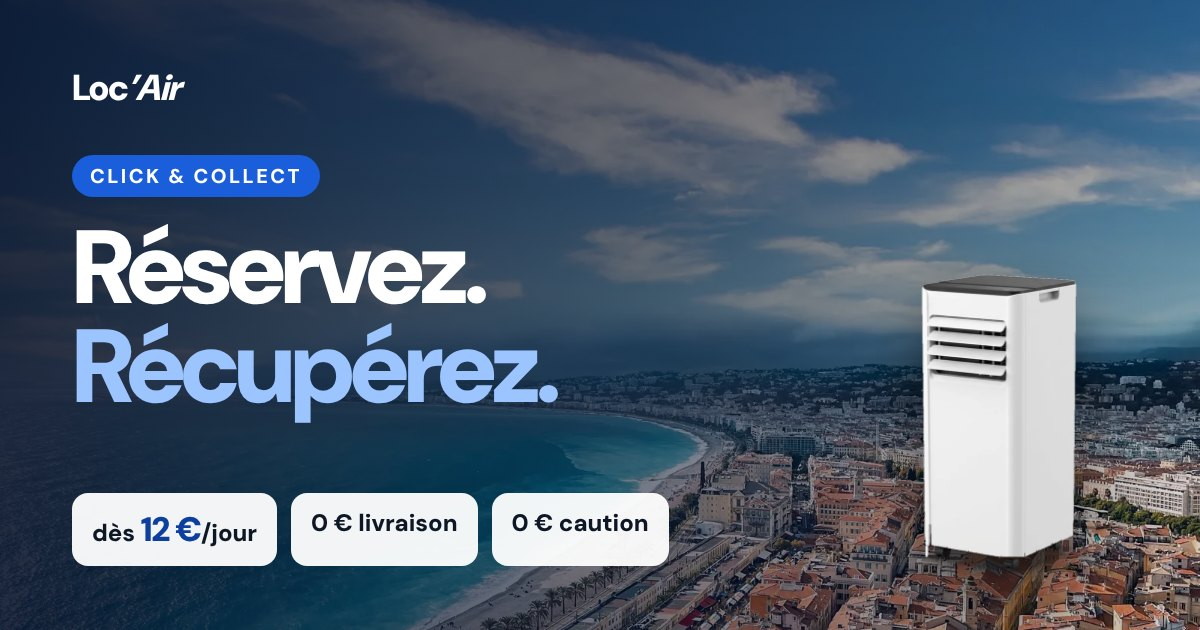
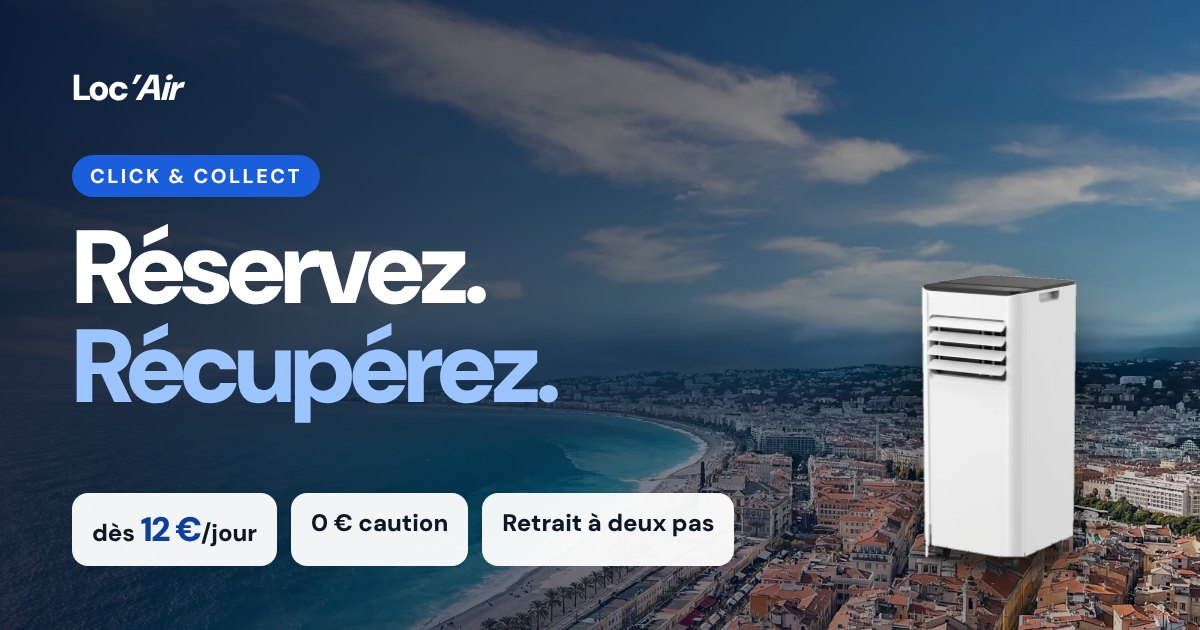
Click & Collect : plus aucune mention de livraison + ticket du haut amélioré
Le Click & Collect ne livre pas : « 0 € de livraison » laissait croire à
une livraison offerte. Retiré du ticket, des tarifs, du simulateur, des
avantages (carte « À deux pas de chez vous »), de la FAQ, du bandeau
manifeste, du récapitulatif, de la barre des dates, des balises de
partage, de l'image de partage et de l'email de confirmation. Julie est
prévenue (ne pas dire « livraison gratuite »).

Ticket : « Prêt à brancher · pièce jusqu'à 15 m² », « Chez un commerçant
près de chez vous », garanties 0 € caution · kit sans perçage ·
réservation 24h/24 · 4,9★.

Claude-Session: https://claude.ai/code/session_01GEnKbPYfUY1zWoPXS2iGVo

Changed region(s): [[0.2775, 0.7841, 0.6167, 0.9048]]

diff --git a/click-and-collect.html b/click-and-collect.html
@@ -39,13 +39,13 @@
 <meta name="viewport" content="width=device-width,initial-scale=1,viewport-fit=cover">
 <title>Click &amp; Collect climatiseur — réservez, récupérez près de chez vous · Loc’Air</title>
 <link rel="canonical" href="https://www.locair.fr/click-and-collect">
-<meta name="description" content="Un climatiseur près de chez vous, réservable à toute heure. Location dès 12 € par jour, retrait dans un point Loc’Air de la Côte d’Azur, sans frais de livraison ni caution.">
+<meta name="description" content="Un climatiseur près de chez vous, réservable à toute heure. Location dès 12 € par jour, retrait dans un point Loc’Air de la Côte d’Azur, sans caution.">
 <meta name="robots" content="noindex,nofollow">
 <meta property="og:type" content="website">
 <meta property="og:site_name" content="Loc’Air">
 <meta property="og:url" content="https://www.locair.fr/click-and-collect">
 <meta property="og:title" content="Réservez. Récupérez. Votre climatiseur près de chez vous · Loc’Air">
-<meta property="og:description" content="Click &amp; Collect sur la Côte d’Azur : réservez en ligne à toute heure, récupérez votre climatiseur chez un commerçant près de chez vous. Dès 12 € par jour, 0 € de livraison, 0 € de caution.">
+<meta property="og:description" content="Click &amp; Collect sur la Côte d’Azur : réservez en ligne à toute heure, récupérez votre climatiseur chez un commerçant près de chez vous. Dès 12 € par jour, sans caution.">
 <meta property="og:image" content="https://www.locair.fr/og-click-collect.jpg">
 <meta property="og:image:width" content="1200">
 <meta property="og:image:height" content="630">
@@ -1010,6 +1010,10 @@ html[data-style="brut"] .tf-barre i{font-family:var(--mono)}
 .av-sous{margin:-12px 0 18px;color:var(--ink-2);font-size:15.5px}
 html[data-style="brut"] .av-sous{font-family:var(--mono);text-transform:uppercase;font-size:12.5px}
 .avis-vo{font-size:12.5px;color:var(--ink-3);margin:2px 0 4px}
+.t-lieu{display:flex;align-items:center;gap:5px;font-size:12.5px;font-weight:700;color:var(--vif-d);margin-top:2px}
+.t-lieu svg{width:14px;height:14px;flex:none;stroke:var(--vif);fill:none;stroke-width:2.2}
+html[data-style="brut"] .t-lieu{font-family:var(--mono);text-transform:uppercase;font-size:11px;color:var(--noir)}
+html[data-style="brut"] .t-lieu svg{stroke:var(--noir)}
 </style>
 <script>
 /* STYLE BRUT (essai) : ?style=brut l'active, ?style=normal le retire. */
@@ -1100,15 +1104,16 @@ html[data-style="brut"] .av-sous{font-family:var(--mono);text-transform:uppercas
             <span class="t-info">
               <span class="t-badge"><svg viewBox="0 0 24 24" aria-hidden="true"><path d="M6 7h12l-1 13H7z"/><path d="M9 7a3 3 0 016 0"/></svg>Click &amp; Collect</span>
               <b class="t-nom"><span lang="fr">Climatiseur mobile</span><span lang="en">Portable air conditioner</span></b>
-              <span class="t-sous"><span lang="fr">Prêt à brancher · sans travaux</span><span lang="en">Plug and play · no works</span></span>
+              <span class="t-sous"><span lang="fr">Prêt à brancher · pièce jusqu’à 15 m²</span><span lang="en">Plug and play · rooms up to 15 m²</span></span>
+              <span class="t-lieu"><svg viewBox="0 0 24 24" aria-hidden="true"><path d="M12 22s7-6.2 7-12a7 7 0 10-14 0c0 5.8 7 12 7 12z"/><circle cx="12" cy="10" r="2.5"/></svg><span lang="fr">Chez un commerçant près de chez vous</span><span lang="en">At a shop near you</span></span>
               <span class="t-prix"><small><span lang="fr">dès</span><span lang="en">from</span></small><b id="prix-mini">12</b><em>€/<span lang="fr">jour</span><span lang="en">day</span></em></span>
             </span>
           </span>
           <span class="t-coupe" aria-hidden="true"></span>
           <span class="t-atouts">
-            <span><b>0&nbsp;€</b><small><span lang="fr">livraison</span><span lang="en">delivery</span></small></span>
-            <span><b>0&nbsp;€</b><small><span lang="fr">caution</span><span lang="en">deposit</span></small></span>
+                        <span><b>0&nbsp;€</b><small><span lang="fr">caution</span><span lang="en">deposit</span></small></span>
             <span><b><span lang="fr">Kit</span><span lang="en">No-drill</span></b><small><span lang="fr">sans perçage</span><span lang="en">kit</span></small></span>
+            <span><b>24h/24</b><small><span lang="fr">réservation</span><span lang="en">booking</span></small></span>
             <span><b>4,9★</b><small><span lang="fr">38 avis</span><span lang="en">38 reviews</span></small></span>
           </span>
           <span class="t-cta"><span lang="fr">Je réserve mon point de retrait</span><span lang="en">Choose my pick-up point</span><svg viewBox="0 0 24 24" aria-hidden="true"><path d="M12 5v14M6 13l6 6 6-6"/></svg></span>
@@ -1118,8 +1123,8 @@ html[data-style="brut"] .av-sous{font-family:var(--mono);text-transform:uppercas
 
     <!-- Bandeau manifeste (version « brut ») : seulement des faits vrais -->
     <div class="manifeste" aria-hidden="true"><div class="m-defile">
-      <span lang="fr">Pas de camion ✕ Pas de caution ✕ Pas de standard ✕ 0 € de livraison ✕ Réservable à toute heure ✕ </span><span lang="en">No van ✕ No deposit ✕ No call centre ✕ €0 delivery ✕ Bookable at any hour ✕ </span>
-      <span lang="fr">Pas de camion ✕ Pas de caution ✕ Pas de standard ✕ 0 € de livraison ✕ Réservable à toute heure ✕ </span><span lang="en">No van ✕ No deposit ✕ No call centre ✕ €0 delivery ✕ Bookable at any hour ✕ </span>
+      <span lang="fr">Pas de caution ✕ Pas de perçage ✕ Pas de standard ✕ Retrait à deux pas ✕ Réservable à toute heure ✕ </span><span lang="en">No deposit ✕ No drilling ✕ No call centre ✕ Pick-up next door ✕ Bookable at any hour ✕ </span>
+      <span lang="fr">Pas de caution ✕ Pas de perçage ✕ Pas de standard ✕ Retrait à deux pas ✕ Réservable à toute heure ✕ </span><span lang="en">No deposit ✕ No drilling ✕ No call centre ✕ Pick-up next door ✕ Bookable at any hour ✕ </span>
     </div></div>
 
     <div class="col">
@@ -1207,7 +1212,6 @@ html[data-style="brut"] .av-sous{font-family:var(--mono);text-transform:uppercas
         </div>
       </div>
       <ul class="tf-inclus">
-        <li><span lang="fr">0 € de livraison</span><span lang="en">€0 delivery</span></li>
         <li><span lang="fr">0 € de caution</span><span lang="en">€0 deposit</span></li>
         <li><span lang="fr">Kit de fenêtre inclus</span><span lang="en">Window kit included</span></li>
         <li><span lang="fr">Prolongation en ligne</span><span lang="en">Extend online</span></li>
@@ -1220,8 +1224,8 @@ html[data-style="brut"] .av-sous{font-family:var(--mono);text-transform:uppercas
     <!-- ══ AVANTAGES (uniquement des faits vrais) ══ -->
     <section class="avantages" aria-labelledby="t-av"><div class="col">
       <h2 id="t-av"><span lang="fr">Tout ce que vous n’aurez pas à faire</span><span lang="en">Everything you won’t have to do</span></h2>
-      <p class="av-sous"><span lang="fr">Pas de caution, pas de livraison à attendre, pas de travaux. Juste du frais.</span><span lang="en">No deposit, no delivery to wait for, no works. Just cool air.</span></p>
-      <ul class="av-grille"><li><span class="av-ico"><svg viewBox="0 0 24 24" aria-hidden="true"><path d="M12 2l8 3v6c0 5-3.5 9-8 11-4.5-2-8-6-8-11V5z"/><path d="M9 12l2 2 4-4"/></svg></span><b><span lang="fr">0 € de caution</span><span lang="en">€0 deposit</span></b><p><span lang="fr">Aucune somme bloquée sur votre carte.</span><span lang="en">Nothing held on your card.</span></p><span class="av-plus"><span lang="fr">Vous payez la location. Point.</span><span lang="en">You pay for the rental. That’s it.</span></span></li><li><span class="av-ico"><svg viewBox="0 0 24 24" aria-hidden="true"><circle cx="12" cy="12" r="9"/><path d="M12 7v5l3 2"/><path d="M19 3v4h-4"/></svg></span><b><span lang="fr">Prolongez en ligne</span><span lang="en">Extend online</span></b><p><span lang="fr">Depuis votre espace client, sans repasser au point.</span><span lang="en">From your customer area, no need to go back to the shop.</span></p><span class="av-plus"><span lang="fr">Selon disponibilité, l’appareil reste chez vous.</span><span lang="en">Subject to availability, the unit stays with you.</span></span></li><li><span class="av-ico"><svg viewBox="0 0 24 24" aria-hidden="true"><path d="M3 7h11v10H3zM14 10h4l3 3v4h-7"/><circle cx="7" cy="18" r="2"/><circle cx="17" cy="18" r="2"/><path d="M2 3l20 18"/></svg></span><b><span lang="fr">0 € de livraison</span><span lang="en">€0 delivery</span></b><p><span lang="fr">Votre climatiseur vous attend déjà près de chez vous.</span><span lang="en">Your air conditioner is already waiting near you.</span></p><span class="av-plus"><span lang="fr">Aucun créneau de livraison à guetter.</span><span lang="en">No delivery slot to wait for.</span></span></li><li><span class="av-ico"><svg viewBox="0 0 24 24" aria-hidden="true"><rect x="4" y="3" width="16" height="18" rx="2"/><path d="M12 3v18M4 12h16"/></svg></span><b><span lang="fr">Zéro perçage</span><span lang="en">Zero drilling</span></b><p><span lang="fr">Le kit de fenêtre est fourni.</span><span lang="en">The window kit is included.</span></p><span class="av-plus"><span lang="fr">Rien à visser. Rien à abîmer.</span><span lang="en">Nothing to screw. Nothing to damage.</span></span></li><li><span class="av-ico"><svg viewBox="0 0 24 24" aria-hidden="true"><rect x="6" y="2" width="12" height="20" rx="3"/><path d="M10 18h4"/></svg></span><b><span lang="fr">Réservez à toute heure</span><span lang="en">Book any time</span></b><p><span lang="fr">Paiement sécurisé en ligne, même à minuit.</span><span lang="en">Secure online payment, even at midnight.</span></p><span class="av-plus"><span lang="fr">Le soir, le week-end, quand vous voulez.</span><span lang="en">Evenings, weekends, whenever you like.</span></span></li><li><span class="av-ico"><svg viewBox="0 0 24 24" aria-hidden="true"><path d="M3 7l6 6 4-4 8 8"/><path d="M14 17h7v-7"/></svg></span><b><span lang="fr">Plus c’est long, moins c’est cher</span><span lang="en">The longer, the cheaper</span></b><p><span lang="fr">Le prix par jour baisse dès le 8e jour.</span><span lang="en">The daily price drops from day 8.</span></p><span class="av-plus" id="av-plus-prix"></span></li></ul>
+      <p class="av-sous"><span lang="fr">Pas de caution, pas de travaux, pas d’attente. Juste du frais.</span><span lang="en">No deposit, no works, no waiting. Just cool air.</span></p>
+      <ul class="av-grille"><li><span class="av-ico"><svg viewBox="0 0 24 24" aria-hidden="true"><path d="M12 2l8 3v6c0 5-3.5 9-8 11-4.5-2-8-6-8-11V5z"/><path d="M9 12l2 2 4-4"/></svg></span><b><span lang="fr">0 € de caution</span><span lang="en">€0 deposit</span></b><p><span lang="fr">Aucune somme bloquée sur votre carte.</span><span lang="en">Nothing held on your card.</span></p><span class="av-plus"><span lang="fr">Vous payez la location. Point.</span><span lang="en">You pay for the rental. That’s it.</span></span></li><li><span class="av-ico"><svg viewBox="0 0 24 24" aria-hidden="true"><circle cx="12" cy="12" r="9"/><path d="M12 7v5l3 2"/><path d="M19 3v4h-4"/></svg></span><b><span lang="fr">Prolongez en ligne</span><span lang="en">Extend online</span></b><p><span lang="fr">Depuis votre espace client, sans repasser au point.</span><span lang="en">From your customer area, no need to go back to the shop.</span></p><span class="av-plus"><span lang="fr">Selon disponibilité, l’appareil reste chez vous.</span><span lang="en">Subject to availability, the unit stays with you.</span></span></li><li><span class="av-ico"><svg viewBox="0 0 24 24" aria-hidden="true"><path d="M12 22s7-6.2 7-12a7 7 0 10-14 0c0 5.8 7 12 7 12z"/><circle cx="12" cy="10" r="2.5"/></svg></span><b><span lang="fr">À deux pas de chez vous</span><span lang="en">Right around the corner</span></b><p><span lang="fr">Votre climatiseur vous attend chez un commerçant du quartier.</span><span lang="en">Your air conditioner is waiting at a local shop.</span></p><span class="av-plus"><span lang="fr">Vous passez quand ça vous arrange, aux horaires du point.</span><span lang="en">Drop by when it suits you, during the shop’s opening hours.</span></span></li><li><span class="av-ico"><svg viewBox="0 0 24 24" aria-hidden="true"><rect x="4" y="3" width="16" height="18" rx="2"/><path d="M12 3v18M4 12h16"/></svg></span><b><span lang="fr">Zéro perçage</span><span lang="en">Zero drilling</span></b><p><span lang="fr">Le kit de fenêtre est fourni.</span><span lang="en">The window kit is included.</span></p><span class="av-plus"><span lang="fr">Rien à visser. Rien à abîmer.</span><span lang="en">Nothing to screw. Nothing to damage.</span></span></li><li><span class="av-ico"><svg viewBox="0 0 24 24" aria-hidden="true"><rect x="6" y="2" width="12" height="20" rx="3"/><path d="M10 18h4"/></svg></span><b><span lang="fr">Réservez à toute heure</span><span lang="en">Book any time</span></b><p><span lang="fr">Paiement sécurisé en ligne, même à minuit.</span><span lang="en">Secure online payment, even at midnight.</span></p><span class="av-plus"><span lang="fr">Le soir, le week-end, quand vous voulez.</span><span lang="en">Evenings, weekends, whenever you like.</span></span></li><li><span class="av-ico"><svg viewBox="0 0 24 24" aria-hidden="true"><path d="M3 7l6 6 4-4 8 8"/><path d="M14 17h7v-7"/></svg></span><b><span lang="fr">Plus c’est long, moins c’est cher</span><span lang="en">The longer, the cheaper</span></b><p><span lang="fr">Le prix par jour baisse dès le 8e jour.</span><span lang="en">The daily price drops from day 8.</span></p><span class="av-plus" id="av-plus-prix"></span></li></ul>
       <div class="av-points" id="av-points" aria-hidden="true"></div>
     </div></section>
 
@@ -1254,10 +1258,10 @@ html[data-style="brut"] .av-sous{font-family:var(--mono);text-transform:uppercas
          ne couvrent pas encore le retrait au point) ══ -->
     <section class="faq" aria-labelledby="t-faq"><div class="col">
       <h2 id="t-faq"><span lang="fr">Questions fréquentes</span><span lang="en">FAQ</span></h2>
-      <div class="faq-liste"><details class="faq-q"><summary><span lang="fr">Comment se passe le retrait ?</span><span lang="en">How does pick-up work?</span><svg viewBox="0 0 24 24" aria-hidden="true"><path d="M6 9l6 6 6-6"/></svg></summary><p><span lang="fr">Le jour choisi, allez directement au point de retrait, aux horaires d’ouverture. Montrez votre QR code (reçu par email) et votre pièce d’identité : on vous remet le climatiseur et son kit de fenêtre.</span><span lang="en">On your chosen day, go straight to the pick-up point during opening hours. Show your QR code (sent by email) and your ID: you get the air conditioner and its window kit.</span></p></details><details class="faq-q"><summary><span lang="fr">Faut-il une caution ?</span><span lang="en">Is there a deposit?</span><svg viewBox="0 0 24 24" aria-hidden="true"><path d="M6 9l6 6 6-6"/></svg></summary><p><span lang="fr">Non. Aucune somme n’est bloquée sur votre carte : vous payez la location, c’est tout.</span><span lang="en">No. Nothing is held on your card: you pay for the rental, that’s all.</span></p></details><details class="faq-q"><summary><span lang="fr">Combien ça coûte ?</span><span lang="en">How much does it cost?</span><svg viewBox="0 0 24 24" aria-hidden="true"><path d="M6 9l6 6 6-6"/></svg></summary><p><span lang="fr">Un prix par jour qui baisse avec la durée (voir les tarifs plus haut), 7 jours minimum, 0 € de livraison. Le prix exact de vos dates s’affiche toujours avant de payer.</span><span lang="en">A daily price that drops the longer you keep it (see pricing above), 7 days minimum, €0 delivery. The exact price for your dates is always shown before you pay.</span></p></details><details class="faq-q"><summary><span lang="fr">Quelle pièce d’identité faut-il ?</span><span lang="en">What ID do I need?</span><svg viewBox="0 0 24 24" aria-hidden="true"><path d="M6 9l6 6 6-6"/></svg></summary><p><span lang="fr">Une carte d’identité (recto et verso) ou un passeport. Vous l’ajoutez juste après le paiement, elle est vérifiée au comptoir, gardée de façon privée et supprimée 30 jours après la location.</span><span lang="en">An ID card (front and back) or a passport. You add it right after paying; it’s checked at the counter, kept private and deleted 30 days after the rental.</span></p></details><details class="faq-q"><summary><span lang="fr">Est-ce adapté à ma pièce ?</span><span lang="en">Will it suit my room?</span><svg viewBox="0 0 24 24" aria-hidden="true"><path d="M6 9l6 6 6-6"/></svg></summary><p><span lang="fr">Le climatiseur mobile rafraîchit une pièce fermée, jusqu’à environ 15 m². La gaine sort par la fenêtre grâce au kit fourni, sans perçage.</span><span lang="en">The portable air conditioner cools a closed room of up to about 15 m². The hose goes out through the window with the kit provided, no drilling.</span></p></details><details class="faq-q"><summary><span lang="fr">Puis-je prolonger ma location ?</span><span lang="en">Can I extend my rental?</span><svg viewBox="0 0 24 24" aria-hidden="true"><path d="M6 9l6 6 6-6"/></svg></summary><p><span lang="fr">Oui, en ligne depuis votre espace client (« Ma réservation »), selon disponibilité. Pas besoin de repasser au point.</span><span lang="en">Yes, online from your customer area (“My booking”), subject to availability. No need to go back to the shop.</span></p></details><details class="faq-q"><summary><span lang="fr">Comment je le rapporte ?</span><span lang="en">How do I return it?</span><svg viewBox="0 0 24 24" aria-hidden="true"><path d="M6 9l6 6 6-6"/></svg></summary><p><span lang="fr">Au même point de retrait, le jour du retour, aux horaires d’ouverture. Rien d’autre à faire.</span><span lang="en">To the same pick-up point, on your return day, during opening hours. Nothing else to do.</span></p></details><details class="faq-q"><summary><span lang="fr">Vais-je recevoir une facture ?</span><span lang="en">Will I get an invoice?</span><svg viewBox="0 0 24 24" aria-hidden="true"><path d="M6 9l6 6 6-6"/></svg></summary><p><span lang="fr">Oui. Elle vous est envoyée par email après le paiement et reste disponible dans votre espace client.</span><span lang="en">Yes. It’s emailed to you after payment and stays available in your customer area.</span></p></details><details class="faq-q"><summary><span lang="fr">Et si l’appareil tombe en panne ?</span><span lang="en">What if the unit breaks down?</span><svg viewBox="0 0 24 24" aria-hidden="true"><path d="M6 9l6 6 6-6"/></svg></summary><p><span lang="fr">Écrivez à Julie (menu ☰ → Aide) : un appareil défaillant est remplacé.</span><span lang="en">Message Julie (menu ☰ → Help): a faulty unit is replaced.</span></p></details></div>
+      <div class="faq-liste"><details class="faq-q"><summary><span lang="fr">Comment se passe le retrait ?</span><span lang="en">How does pick-up work?</span><svg viewBox="0 0 24 24" aria-hidden="true"><path d="M6 9l6 6 6-6"/></svg></summary><p><span lang="fr">Le jour choisi, allez directement au point de retrait, aux horaires d’ouverture. Montrez votre QR code (reçu par email) et votre pièce d’identité : on vous remet le climatiseur et son kit de fenêtre.</span><span lang="en">On your chosen day, go straight to the pick-up point during opening hours. Show your QR code (sent by email) and your ID: you get the air conditioner and its window kit.</span></p></details><details class="faq-q"><summary><span lang="fr">Faut-il une caution ?</span><span lang="en">Is there a deposit?</span><svg viewBox="0 0 24 24" aria-hidden="true"><path d="M6 9l6 6 6-6"/></svg></summary><p><span lang="fr">Non. Aucune somme n’est bloquée sur votre carte : vous payez la location, c’est tout.</span><span lang="en">No. Nothing is held on your card: you pay for the rental, that’s all.</span></p></details><details class="faq-q"><summary><span lang="fr">Combien ça coûte ?</span><span lang="en">How much does it cost?</span><svg viewBox="0 0 24 24" aria-hidden="true"><path d="M6 9l6 6 6-6"/></svg></summary><p><span lang="fr">Un prix par jour qui baisse avec la durée (voir les tarifs plus haut), 7 jours minimum, sans caution. Le prix exact de vos dates s’affiche toujours avant de payer.</span><span lang="en">A daily price that drops the longer you keep it (see pricing above), 7 days minimum, no deposit. The exact price for your dates is always shown before you pay.</span></p></details><details class="faq-q"><summary><span lang="fr">Quelle pièce d’identité faut-il ?</span><span lang="en">What ID do I need?</span><svg viewBox="0 0 24 24" aria-hidden="true"><path d="M6 9l6 6 6-6"/></svg></summary><p><span lang="fr">Une carte d’identité (recto et verso) ou un passeport. Vous l’ajoutez juste après le paiement, elle est vérifiée au comptoir, gardée de façon privée et supprimée 30 jours après la location.</span><span lang="en">An ID card (front and back) or a passport. You add it right after paying; it’s checked at the counter, kept private and deleted 30 days after the rental.</span></p></details><details class="faq-q"><summary><span lang="fr">Est-ce adapté à ma pièce ?</span><span lang="en">Will it suit my room?</span><svg viewBox="0 0 24 24" aria-hidden="true"><path d="M6 9l6 6 6-6"/></svg></summary><p><span lang="fr">Le climatiseur mobile rafraîchit une pièce fermée, jusqu’à environ 15 m². La gaine sort par la fenêtre grâce au kit fourni, sans perçage.</span><span lang="en">The portable air conditioner cools a closed room of up to about 15 m². The hose goes out through the window with the kit provided, no drilling.</span></p></details><details class="faq-q"><summary><span lang="fr">Puis-je prolonger ma location ?</span><span lang="en">Can I extend my rental?</span><svg viewBox="0 0 24 24" aria-hidden="true"><path d="M6 9l6 6 6-6"/></svg></summary><p><span lang="fr">Oui, en ligne depuis votre espace client (« Ma réservation »), selon disponibilité. Pas besoin de repasser au point.</span><span lang="en">Yes, online from your customer area (“My booking”), subject to availability. No need to go back to the shop.</span></p></details><details class="faq-q"><summary><span lang="fr">Comment je le rapporte ?</span><span lang="en">How do I return it?</span><svg viewBox="0 0 24 24" aria-hidden="true"><path d="M6 9l6 6 6-6"/></svg></summary><p><span lang="fr">Au même point de retrait, le jour du retour, aux horaires d’ouverture. Rien d’autre à faire.</span><span lang="en">To the same pick-up point, on your return day, during opening hours. Nothing else to do.</span></p></details><details class="faq-q"><summary><span lang="fr">Vais-je recevoir une facture ?</span><span lang="en">Will I get an invoice?</span><svg viewBox="0 0 24 24" aria-hidden="true"><path d="M6 9l6 6 6-6"/></svg></summary><p><span lang="fr">Oui. Elle vous est envoyée par email après le paiement et reste disponible dans votre espace client.</span><span lang="en">Yes. It’s emailed to you after payment and stays available in your customer area.</span></p></details><details class="faq-q"><summary><span lang="fr">Et si l’appareil tombe en panne ?</span><span lang="en">What if the unit breaks down?</span><svg viewBox="0 0 24 24" aria-hidden="true"><path d="M6 9l6 6 6-6"/></svg></summary><p><span lang="fr">Écrivez à Julie (menu ☰ → Aide) : un appareil défaillant est remplacé.</span><span lang="en">Message Julie (menu ☰ → Help): a faulty unit is replaced.</span></p></details></div>
       <p class="faq-plus"><span lang="fr">Une autre question&nbsp;?</span><span lang="en">Another question?</span> <button type="button" class="lien-chat ouvrir-chat"><span lang="fr">Demandez à Julie</span><span lang="en">Ask Julie</span></button></p>
     </div></section>
-    <script type="application/ld+json">{"@context": "https://schema.org", "@type": "FAQPage", "mainEntity": [{"@type": "Question", "name": "Comment se passe le retrait ?", "acceptedAnswer": {"@type": "Answer", "text": "Le jour choisi, allez directement au point de retrait, aux horaires d’ouverture. Montrez votre QR code (reçu par email) et votre pièce d’identité : on vous remet le climatiseur et son kit de fenêtre."}}, {"@type": "Question", "name": "Faut-il une caution ?", "acceptedAnswer": {"@type": "Answer", "text": "Non. Aucune somme n’est bloquée sur votre carte : vous payez la location, c’est tout."}}, {"@type": "Question", "name": "Combien ça coûte ?", "acceptedAnswer": {"@type": "Answer", "text": "Un prix par jour qui baisse avec la durée (voir les tarifs plus haut), 7 jours minimum, 0 € de livraison. Le prix exact de vos dates s’affiche toujours avant de payer."}}, {"@type": "Question", "name": "Quelle pièce d’identité faut-il ?", "acceptedAnswer": {"@type": "Answer", "text": "Une carte d’identité (recto et verso) ou un passeport. Vous l’ajoutez juste après le paiement, elle est vérifiée au comptoir, gardée de façon privée et supprimée 30 jours après la location."}}, {"@type": "Question", "name": "Est-ce adapté à ma pièce ?", "acceptedAnswer": {"@type": "Answer", "text": "Le climatiseur mobile rafraîchit une pièce fermée, jusqu’à environ 15 m². La gaine sort par la fenêtre grâce au kit fourni, sans perçage."}}, {"@type": "Question", "name": "Puis-je prolonger ma location ?", "acceptedAnswer": {"@type": "Answer", "text": "Oui, en ligne depuis votre espace client (« Ma réservation »), selon disponibilité. Pas besoin de repasser au point."}}, {"@type": "Question", "name": "Comment je le rapporte ?", "acceptedAnswer": {"@type": "Answer", "text": "Au même point de retrait, le jour du retour, aux horaires d’ouverture. Rien d’autre à faire."}}, {"@type": "Question", "name": "Vais-je recevoir une facture ?", "acceptedAnswer": {"@type": "Answer", "text": "Oui. Elle vous est envoyée par email après le paiement et reste disponible dans votre espace client."}}, {"@type": "Question", "name": "Et si l’appareil tombe en panne ?", "acceptedAnswer": {"@type": "Answer", "text": "Écrivez à Julie (menu ☰ → Aide) : un appareil défaillant est remplacé."}}]}</script>
+    <script type="application/ld+json">{"@context": "https://schema.org", "@type": "FAQPage", "mainEntity": [{"@type": "Question", "name": "Comment se passe le retrait ?", "acceptedAnswer": {"@type": "Answer", "text": "Le jour choisi, allez directement au point de retrait, aux horaires d’ouverture. Montrez votre QR code (reçu par email) et votre pièce d’identité : on vous remet le climatiseur et son kit de fenêtre."}}, {"@type": "Question", "name": "Faut-il une caution ?", "acceptedAnswer": {"@type": "Answer", "text": "Non. Aucune somme n’est bloquée sur votre carte : vous payez la location, c’est tout."}}, {"@type": "Question", "name": "Combien ça coûte ?", "acceptedAnswer": {"@type": "Answer", "text": "Un prix par jour qui baisse avec la durée (voir les tarifs plus haut), 7 jours minimum, sans caution. Le prix exact de vos dates s’affiche toujours avant de payer."}}, {"@type": "Question", "name": "Quelle pièce d’identité faut-il ?", "acceptedAnswer": {"@type": "Answer", "text": "Une carte d’identité (recto et verso) ou un passeport. Vous l’ajoutez juste après le paiement, elle est vérifiée au comptoir, gardée de façon privée et supprimée 30 jours après la location."}}, {"@type": "Question", "name": "Est-ce adapté à ma pièce ?", "acceptedAnswer": {"@type": "Answer", "text": "Le climatiseur mobile rafraîchit une pièce fermée, jusqu’à environ 15 m². La gaine sort par la fenêtre grâce au kit fourni, sans perçage."}}, {"@type": "Question", "name": "Puis-je prolonger ma location ?", "acceptedAnswer": {"@type": "Answer", "text": "Oui, en ligne depuis votre espace client (« Ma réservation »), selon disponibilité. Pas besoin de repasser au point."}}, {"@type": "Question", "name": "Comment je le rapporte ?", "acceptedAnswer": {"@type": "Answer", "text": "Au même point de retrait, le jour du retour, aux horaires d’ouverture. Rien d’autre à faire."}}, {"@type": "Question", "name": "Vais-je recevoir une facture ?", "acceptedAnswer": {"@type": "Answer", "text": "Oui. Elle vous est envoyée par email après le paiement et reste disponible dans votre espace client."}}, {"@type": "Question", "name": "Et si l’appareil tombe en panne ?", "acceptedAnswer": {"@type": "Answer", "text": "Écrivez à Julie (menu ☰ → Aide) : un appareil défaillant est remplacé."}}]}</script>
 
     <footer class="pied"><div class="col">© Loc’Air · <a href="/qui-sommes-nous"><span lang="fr">Qui sommes-nous</span><span lang="en">About us</span></a> · <a href="/cgv">CGV</a> · <a href="/mentions-legales">Mentions légales</a> · <a href="/confidentialite">Confidentialité</a></div></footer>
   </section>
@@ -1297,8 +1301,8 @@ html[data-style="brut"] .av-sous{font-family:var(--mono);text-transform:uppercas
             <span lang="en">Every rental brings the customer into your shop twice: at pick-up and at return.</span></div></li>
           <li><svg viewBox="0 0 24 24" aria-hidden="true"><path d="M12 21s-7-4.4-7-10a4 4 0 017-2.6A4 4 0 0119 11c0 5.6-7 10-7 10z"/></svg>
             <div><b lang="fr">Un vrai service au quartier</b><b lang="en">A real service for your area</b>
-            <span lang="fr">En pleine chaleur, vos voisins et les vacanciers trouvent un climatiseur à deux pas, sans attendre une livraison.</span>
-            <span lang="en">In a heatwave, locals and holiday-makers get an air conditioner a few steps away, with no delivery to wait for.</span></div></li>
+            <span lang="fr">En pleine chaleur, vos voisins et les vacanciers trouvent un climatiseur à deux pas de chez eux.</span>
+            <span lang="en">In a heatwave, locals and holiday-makers get an air conditioner just a few steps from home.</span></div></li>
           <li><svg viewBox="0 0 24 24" aria-hidden="true"><path d="M12 22s7-6.2 7-12a7 7 0 10-14 0c0 5.8 7 12 7 12z"/><circle cx="12" cy="10" r="2.5"/></svg>
             <div><b lang="fr">Votre commerce sur notre carte</b><b lang="en">Your shop on our map</b>
             <span lang="fr">Votre adresse apparaît sur la carte de réservation, vue par chaque client qui cherche un point près de chez lui.</span>
@@ -1387,7 +1391,7 @@ html[data-style="brut"] .av-sous{font-family:var(--mono);text-transform:uppercas
       <dl class="recap recap-mini" id="recap">
         <div><dt><svg class="ico" viewBox="0 0 24 24" aria-hidden="true"><path d="M12 22s7-6.2 7-12a7 7 0 10-14 0c0 5.8 7 12 7 12z"/><circle cx="12" cy="10" r="2.5"/></svg>Point</dt><dd id="r-point"></dd><button type="button" class="modif" data-modif="point" aria-label="Modifier le point de retrait"><span lang="fr">Modifier</span><span lang="en">Change</span></button></div>
         <div><dt><svg class="ico" viewBox="0 0 24 24" aria-hidden="true"><rect x="3" y="5" width="18" height="16" rx="2"/><path d="M3 10h18M8 3v4M16 3v4"/></svg>Dates</dt><dd id="r-date"></dd><button type="button" class="modif" data-modif="dates" aria-label="Modifier les dates"><span lang="fr">Modifier</span><span lang="en">Change</span></button></div>
-        <div class="total"><dt><svg class="ico" viewBox="0 0 24 24" aria-hidden="true"><path d="M18 7a7 7 0 100 10M4 10h9M4 14h9"/></svg>Total</dt><dd><span id="r-prix"></span> <small><span class="barre-prix" id="r-livr-barre"></span><span lang="fr">livraison 0 €</span><span lang="en">delivery €0</span></small></dd></div>
+        <div class="total"><dt><svg class="ico" viewBox="0 0 24 24" aria-hidden="true"><path d="M18 7a7 7 0 100 10M4 10h9M4 14h9"/></svg>Total</dt><dd><span id="r-prix"></span> <small><span lang="fr">sans caution</span><span lang="en">no deposit</span></small></dd></div>
       </dl>
       <form class="form" id="form" novalidate>
         <div class="deux">
@@ -1939,10 +1943,7 @@ var STRIPE_PK = 'pk_live_51TeLMfFs0bamd26ewOCytZvuoYxnZvhIEYnHMxJEVjrW593LTrHWpY
     $('tf-n').textContent = n + L(' jours', ' days');
     $('tf-total').textContent = euros(tot);
     $('tf-parj').textContent = L('au total · soit ', 'in total · ') + euros(Math.round(tot / n * 100) / 100) + L('/jour', '/day');
-    var liv = POINTS.map(function(p){ return +p.livraison || 0; }).filter(function(x){ return x > 0; });
-    var livMin = liv.length ? Math.min.apply(null, liv) : 0;
-    $('tf-eco').innerHTML = (eco > 0 ? '<b>' + L('Vous économisez ', 'You save ') + euros(eco) + '</b>' + L(' par rapport au plein tarif.', ' compared with the full daily rate.') + ' ' : '') +
-      (livMin ? L('Et la livraison à domicile (dès ' + euros(livMin) + ') ne vous coûte rien.', 'And home delivery (from ' + euros(livMin) + ') costs you nothing.') : '');
+    $('tf-eco').innerHTML = eco > 0 ? '<b>' + L('Vous économisez ', 'You save ') + euros(eco) + '</b>' + L(' par rapport au plein tarif.', ' compared with the full daily rate.') : L('Le prix par jour baisse dès le 8e jour.', 'The daily price drops from day 8.');
     [].forEach.call($('tf-paliers').children, function(li){ var a = +li.dataset.deb, b = +li.dataset.fin; li.classList.toggle('on', a <= n); li.classList.toggle('actuel', a <= n && n <= b); });
     [].forEach.call($('tf-exemples').children, function(b){ b.setAttribute('aria-pressed', String(+b.dataset.tfj === n)); });
     r.style.setProperty('--p', ((n - r.min) / (r.max - r.min) * 100) + '%');
@@ -2041,7 +2042,7 @@ var STRIPE_PK = 'pk_live_51TeLMfFs0bamd26ewOCytZvuoYxnZvhIEYnHMxJEVjrW593LTrHWpY
       else t.innerHTML = '<b>' + n + L(' jours · ', ' days · ') + euros(tot) + (pr && pr.majore ? ' <s class="prix-normal">' + euros(pr.normalCents / 100) + '</s>' : '') + '</b>' +
         (pr && pr.majore ? '<span class="forte">' + L('Forte demande à ces dates : +', 'High demand on these dates: +') + pr.majorationPct + ' %</span>' : esc(court(etat.debut) + ' → ' + court(etat.fin)) + L(' · soit ', ' · ') + euros(Math.round(tot / n * 100) / 100) + L('/jour', '/day'));
     }
-    else t.innerHTML = '<b>' + (etat.debut ? L('Choisissez le retour', 'Choose your return') : L('Choisissez vos dates', 'Choose your dates')) + '</b>' + L('7 jours minimum · 0 € livraison', '7 days minimum · no delivery fee');
+    else t.innerHTML = '<b>' + (etat.debut ? L('Choisissez le retour', 'Choose your return') : L('Choisissez vos dates', 'Choose your dates')) + '</b>' + L('7 jours minimum · sans caution', '7 days minimum · no deposit');
     $('dates-ok').disabled = !ok || complet; $('effacer').hidden = !etat.debut;
     window._ccValeur = ok ? total() : 0;
     sauver('dates');
@@ -2084,7 +2085,6 @@ var STRIPE_PK = 'pk_live_51TeLMfFs0bamd26ewOCytZvuoYxnZvhIEYnHMxJEVjrW593LTrHWpY
     $('r-point').textContent = p.nom + (p.exemple ? L(' (exemple)', ' (example)') : '');
     $('r-date').textContent = court(etat.debut) + ' → ' + court(etat.fin) + ' · ' + n + L(' j', ' d');
     $('r-prix').textContent = euros(total());
-    $('r-livr-barre').textContent = p.livraison ? p.livraison + ' € ' : '';
     $('wa').href = 'https://wa.me/33663798756?text=' + encodeURIComponent(messageWA());
     $('envoyer').textContent = p.exemple ? L('Réserver par WhatsApp', 'Book on WhatsApp') : L('Continuer vers le paiement · ', 'Continue to payment · ') + euros(total());
     if(etat.client){ ['prenom','nom','email','tel'].forEach(function(k){ if(!$(k).value && etat.client[k]) $(k).value = etat.client[k]; }); }

diff --git a/api/_lib/julieKnowledge.js b/api/_lib/julieKnowledge.js
@@ -26,7 +26,7 @@ const PRODUITS = `### Climatiseur mobile
 ### Click & Collect (climatiseur mobile à retirer soi-même)
 - Page : https://locair.fr/click-and-collect
 - Le client réserve et paie en ligne, à toute heure, puis récupère son climatiseur mobile chez un commerçant partenaire près de chez lui (point de retrait), aux horaires de ce point, et le rapporte au même point à la fin.
-- Même prix par jour que le climatiseur mobile (dès 12 €/j, dégressif), 7 jours minimum, 0 € de livraison, aucune caution. À certaines dates très demandées, le prix peut être plus élevé : le prix exact s'affiche toujours avant de payer.
+- Même prix par jour que le climatiseur mobile (dès 12 €/j, dégressif), 7 jours minimum, aucune caution. Pas de livraison : le client vient chercher l'appareil au point (ne pas présenter ça comme « livraison gratuite »). À certaines dates très demandées, le prix peut être plus élevé : le prix exact s'affiche toujours avant de payer.
 - Pièce d'identité (carte recto-verso ou passeport) : ajoutée juste après le paiement, et vérifiée au comptoir avec le QR code de retrait reçu par email.
 - Les points de retrait sont en cours d'ouverture : si le paiement en ligne n'est pas encore ouvert pour un point (marqué « Exemple »), le client peut réserver par WhatsApp.
 - Un commerçant qui veut devenir point de retrait : onglet « Devenez point de retrait » en bas de la page Click & Collect.

diff --git a/api/webhook.js b/api/webhook.js
@@ -816,7 +816,7 @@ async function sendConfirmationClickCollect(supabase, resa, meta, amount) {
       [T('Point de retrait', 'Pick-up point'), adressePoint],
       [T('Retrait', 'Pick-up'), fmt(resa.date_debut) + ' — ' + horaires],
       [T('Retour au même point', 'Return to the same point'), fmt(resa.date_fin)],
-      [T('Payé', 'Paid'), amount + T(' (sans livraison, sans caution)', ' (no delivery fee, no deposit)')],
+      [T('Payé', 'Paid'), amount + T(' (sans caution)', ' (no deposit)')],
       [T('Référence', 'Reference'), resa.ref || ''],
     ].map(([k, v]) => `<tr><td style="padding:6px 12px 6px 0;color:#4B5873;white-space:nowrap">${esc(k)}</td><td style="padding:6px 0"><b>${esc(v)}</b></td></tr>`).join('');
     const html = `<div style="font-family:Arial,sans-serif;color:#0E1726;max-width:560px">
